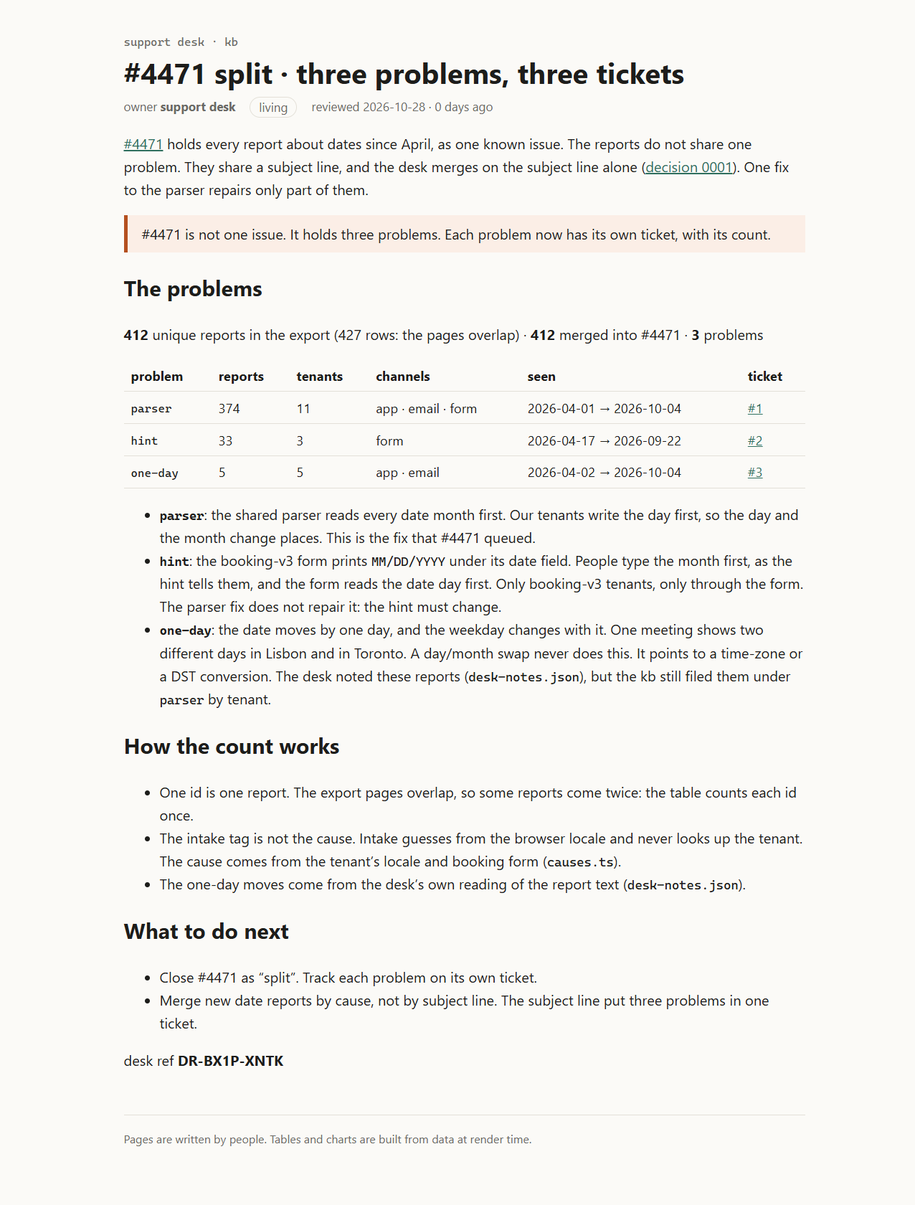
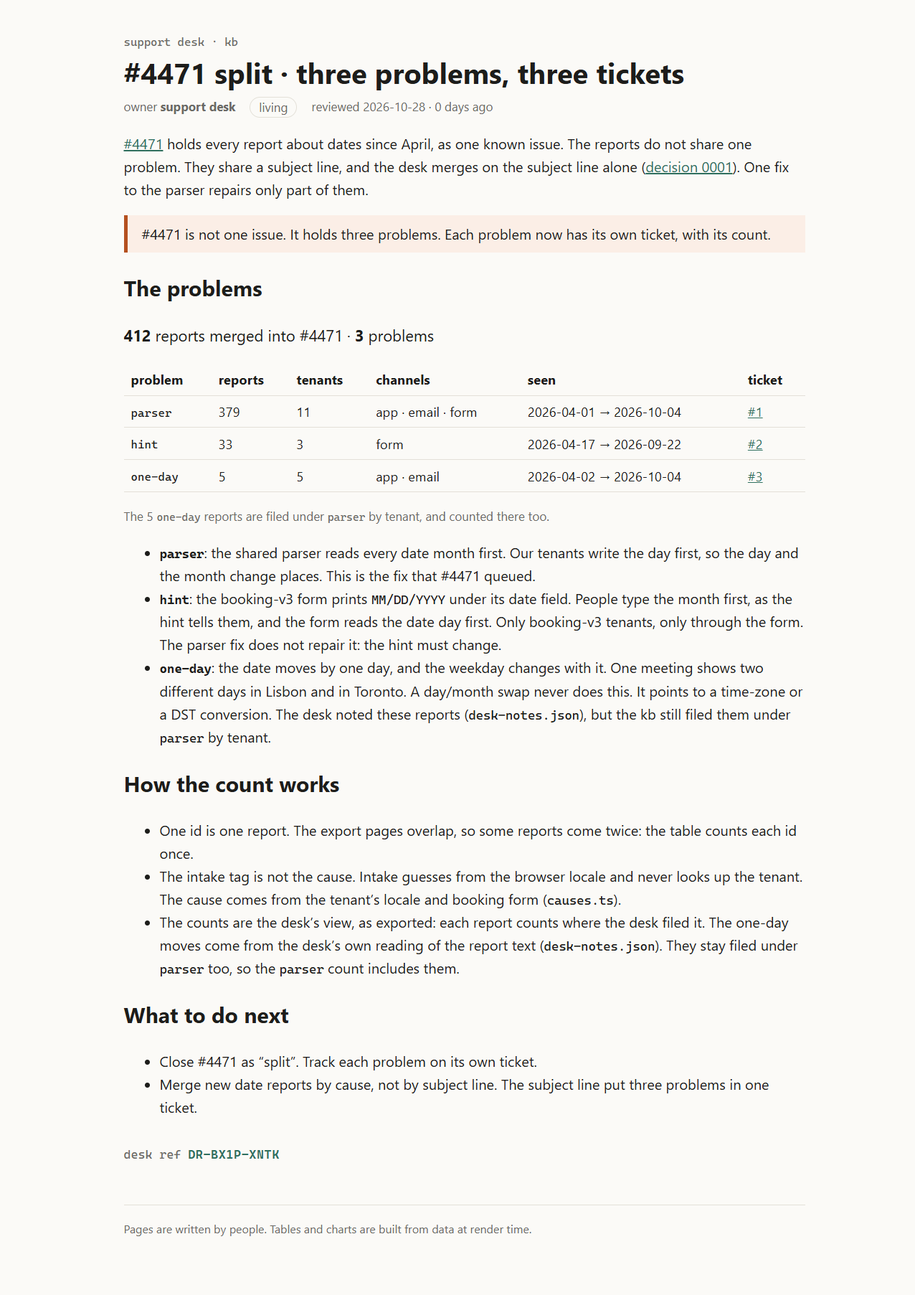
Count the #4471 split the desk's way
Count each report where the desk files it, as CauseTable does. The
parser problem now covers 379 reports, the 5 one-day moves included.
Restore causes.ts to the exported version.

diff --git a/rendered/site/kb/incidents/4471-split.html b/rendered/site/kb/incidents/4471-split.html
@@ -9,25 +9,26 @@
 		<link href="../../_app/immutable/chunks/B2Ul7l_u.js" rel="modulepreload">
 		<link href="../../_app/immutable/chunks/BCPXOG7W.js" rel="modulepreload">
 		<link href="../../_app/immutable/chunks/Dh1V97Jm.js" rel="modulepreload">
-		<link href="../../_app/immutable/entry/app.Csm3dcEE.js" rel="modulepreload">
+		<link href="../../_app/immutable/entry/app.CWMet1Cd.js" rel="modulepreload">
 		<link href="../../_app/immutable/nodes/0.C9KfiiPz.js" rel="modulepreload">
 		<link href="../../_app/immutable/chunks/DK3Fl9T5.js" rel="modulepreload">
-		<link href="../../_app/immutable/nodes/5.BJ21lesz.js" rel="modulepreload">
-		<link href="../../_app/immutable/chunks/ga4v6-0K.js" rel="modulepreload">
+		<link href="../../_app/immutable/nodes/5.B3uYD95O.js" rel="modulepreload">
+		<link href="../../_app/immutable/chunks/B25wft3Z.js" rel="modulepreload">
 		<link href="../../_app/immutable/chunks/BTPwLomz.js" rel="modulepreload">
 		<link href="../../_app/immutable/chunks/CVBzP17p.js" rel="modulepreload">
-		<link href="../../_app/immutable/chunks/CGGt1m8v.js" rel="modulepreload">
+		<link href="../../_app/immutable/chunks/BIy4WKJS.js" rel="modulepreload">
 		<!--e2jw2j--><!----><title>#4471 split · three problems, three tickets · support kb</title>
 		<link href="../../_app/immutable/assets/runbook.COyw0cbZ.css" rel="stylesheet">
 		<link href="../../_app/immutable/assets/Callout.AbLv9dM_.css" rel="stylesheet">
-		<link href="../../_app/immutable/assets/_page.BZb6cwmm.css" rel="stylesheet">
+		<link href="../../_app/immutable/assets/_page.lzZMl6pG.css" rel="stylesheet">
   </head>
   <body>
     <div style="display: contents"><!--[--><!--[--><!--[0--><!--[--><!--[--><!--[-1--><!--[--><div class="kb svelte-e2jw2j"><header><a class="crumb svelte-e2jw2j" href="/kb">support desk · kb</a> <h1 class="svelte-e2jw2j">#4471 split · three problems, three tickets</h1> <p class="meta svelte-e2jw2j"><span>owner <b>support desk</b></span> <span class="status living svelte-e2jw2j">living</span> <span class="svelte-e2jw2j">reviewed 2026-10-28 · 0 days ago</span></p></header> <!--[-1--><!--]--> <main><p><a href="/kb/incidents/4471">#4471</a> holds every report about dates since April, as one known issue. The
 reports do not share one problem. They share a subject line, and the desk merges on the subject line
 alone (<a href="/kb/decisions/0001-dedupe-by-subject">decision 0001</a>). One fix to the parser repairs only
 part of them.</p> <aside class="warn svelte-17bri61"><!---->#4471 is not one issue. It holds three problems. Each problem now has its own ticket, with its
-count.<!----></aside><!----> <h2>The problems</h2> <p class="sum svelte-1op6c6"><strong>412</strong> unique reports in the export (427 rows: the pages overlap) · <strong>412</strong> merged into #4471 · <strong>3</strong> problems</p> <table><thead><tr><th>problem</th><th>reports</th><th>tenants</th><th>channels</th><th>seen</th><th>ticket</th></tr></thead><tbody><!--[--><tr><td><code>parser</code></td><td>374</td><td>11</td><td>app · email · form</td><td>2026-04-01 → 2026-10-04</td><td><!--[0--><a href="https://github.com/aasmaa11/mega-what-it-shows/issues/1">#1</a><!--]--></td></tr><tr><td><code>hint</code></td><td>33</td><td>3</td><td>form</td><td>2026-04-17 → 2026-09-22</td><td><!--[0--><a href="https://github.com/aasmaa11/mega-what-it-shows/issues/2">#2</a><!--]--></td></tr><tr><td><code>one-day</code></td><td>5</td><td>5</td><td>app · email</td><td>2026-04-02 → 2026-10-04</td><td><!--[0--><a href="https://github.com/aasmaa11/mega-what-it-shows/issues/3">#3</a><!--]--></td></tr><!--]--></tbody></table><!----> <ul><li><strong><code>parser</code></strong>: the shared parser reads every date month first. Our tenants write the day first, so
+count.<!----></aside><!----> <h2>The problems</h2> <p class="sum svelte-1op6c6"><strong>412</strong> reports merged into #4471 · <strong>3</strong> problems</p> <table><thead><tr><th>problem</th><th>reports</th><th>tenants</th><th>channels</th><th>seen</th><th>ticket</th></tr></thead><tbody><!--[--><tr><td><code>parser</code></td><td>379</td><td>11</td><td>app · email · form</td><td>2026-04-01 → 2026-10-04</td><td><!--[0--><a href="https://github.com/aasmaa11/mega-what-it-shows/issues/1">#1</a><!--]--></td></tr><tr><td><code>hint</code></td><td>33</td><td>3</td><td>form</td><td>2026-04-17 → 2026-09-22</td><td><!--[0--><a href="https://github.com/aasmaa11/mega-what-it-shows/issues/2">#2</a><!--]--></td></tr><tr><td><code>one-day</code></td><td>5</td><td>5</td><td>app · email</td><td>2026-04-02 → 2026-10-04</td><td><!--[0--><a href="https://github.com/aasmaa11/mega-what-it-shows/issues/3">#3</a><!--]--></td></tr><!--]--></tbody></table> <!--[--><!--[-1--><!--]--><!--[-1--><!--]--><!--[0--><p class="note svelte-1op6c6">The 5 <code>one-day</code> reports are filed under <code>parser</code> by tenant, and
+      counted there too.</p><!--]--><!--]--><!----> <ul><li><strong><code>parser</code></strong>: the shared parser reads every date month first. Our tenants write the day first, so
 the day and the month change places. This is the fix that #4471 queued.</li> <li><strong><code>hint</code></strong>: the booking-v3 form prints <code>MM/DD/YYYY</code> under its date field. People type the month
 first, as the hint tells them, and the form reads the date day first. Only booking-v3 tenants,
 only through the form. The parser fix does not repair it: the hint must change.</li> <li><strong><code>one-day</code></strong>: the date moves by one day, and the weekday changes with it. One meeting shows two
@@ -35,21 +36,23 @@ different days in Lisbon and in Toronto. A day/month swap never does this. It po
 time-zone or a DST conversion. The desk noted these reports (<code>desk-notes.json</code>), but the kb still
 filed them under <code>parser</code> by tenant.</li></ul> <h2>How the count works</h2> <ul><li>One id is one report. The export pages overlap, so some reports come twice: the table counts
 each id once.</li> <li>The intake tag is not the cause. Intake guesses from the browser locale and never looks up the
-tenant. The cause comes from the tenant’s locale and booking form (<code>causes.ts</code>).</li> <li>The one-day moves come from the desk’s own reading of the report text (<code>desk-notes.json</code>).</li></ul> <h2>What to do next</h2> <ul><li>Close #4471 as “split”. Track each problem on its own ticket.</li> <li>Merge new date reports by cause, not by subject line. The subject line put three problems in one
+tenant. The cause comes from the tenant’s locale and booking form (<code>causes.ts</code>).</li> <li>The counts are the desk’s view, as exported: each report counts where the desk filed it. The
+one-day moves come from the desk’s own reading of the report text (<code>desk-notes.json</code>). They stay
+filed under <code>parser</code> too, so the <code>parser</code> count includes them.</li></ul> <h2>What to do next</h2> <ul><li>Close #4471 as “split”. Track each problem on its own ticket.</li> <li>Merge new date reports by cause, not by subject line. The subject line put three problems in one
 ticket.</li></ul> <!--[0--><p class="stamp svelte-1280m42">desk ref <b class="svelte-1280m42">DR-BX1P-XNTK</b></p><!--]--><!----><!----></main> <footer class="svelte-e2jw2j">Pages are written by people. Tables and charts are built from data at render time.</footer></div><!--]--><!--]--><!--]--><!----><!--]--><!--]--><!--]--><!----> <!--[-1--><!--]--><!--]-->
 			
 			<script>
 				{
-					__sveltekit_19t1wzj = {
+					__sveltekit_7le717 = {
 						base: new URL("../..", location).pathname.slice(0, -1),
-						version: "1793204968447"
+						version: "1793205101162"
 					};
 
 					const element = document.currentScript.parentElement;
 
 					import("../../_app/immutable/entry/start.CH5w6lId.js").then(async (kit) => {
-						kit.init(__sveltekit_19t1wzj);
-						const app = await import("../../_app/immutable/entry/app.Csm3dcEE.js");
+						kit.init(__sveltekit_7le717);
+						const app = await import("../../_app/immutable/entry/app.CWMet1Cd.js");
 						kit.start(app, element, {
 							node_ids: [0, 5],
 							data: [null,null],

diff --git a/rendered/site/_app/immutable/chunks/B25wft3Z.js b/rendered/site/_app/immutable/chunks/B25wft3Z.js
@@ -1,0 +1,17 @@
+import{t as e}from"./DK3Fl9T5.js";import{E as t,F as n,H as r,I as i,K as a,L as o,N as s,O as c,R as l,S as u,T as d,U as f,W as p,_ as m,c as h,h as g,k as _,q as v,r as y,t as b,w as x}from"./BCPXOG7W.js";import{t as S}from"./BTPwLomz.js";import{n as C,t as w}from"./CVBzP17p.js";import{a as T,l as E,o as D,r as O,t as k}from"./BIy4WKJS.js";var A=t(`<a> </a>`),j=t(`<span class="none svelte-1op6c6">no ticket</span>`),M=t(`<tr><td><code> </code></td><td> </td><td> </td><td> </td><td> </td><td><!></td></tr>`),N=t(`<p class="note svelte-1op6c6"> <code> </code> reports are filed under <code> </code> by tenant, and
+      counted there too.</p>`),P=t(`<p class="sum svelte-1op6c6"><strong> </strong> <strong> </strong> </p> <table><thead><tr><th>problem</th><th>reports</th><th>tenants</th><th>channels</th><th>seen</th><th>ticket</th></tr></thead><tbody></tbody></table> <!>`,1);function F(e,t){p(t,!0);let c=r(()=>E(C).filter(e=>e.mergedInto===t.ticket)),y=r(()=>T(_(c),O)),b=r(()=>_(c).filter(e=>w.oneDayMove.includes(e.id))),S=r(()=>[..._(y).map(e=>({problem:e.cause,reports:e.reports,filedUnder:null})),{problem:`one-day`,reports:_(b),filedUnder:_(y).find(e=>D(e,w.oneDayMove))?.cause??null}]),k=e=>{let t=e.map(e=>e.receivedAt.slice(0,10)).sort();return`${t[0]} → ${t[t.length-1]}`},F=e=>`#${e.split(`/`).pop()}`;var I=P(),L=i(I),R=n(L),z=o(R,!0),B=l(R),V=l(B),H=o(V,!0),U=l(V);v(L);var W=l(L,2),G=l(n(W));g(G,21,()=>_(S),e=>e.problem,(e,r)=>{var i=M(),a=n(i),c=n(a),d=o(c,!0);v(a);var f=l(a),p=o(f,!0),g=l(f),y=o(g,!0),b=l(g),S=o(b,!0),C=l(b),w=o(C,!0),T=l(C),E=n(T),D=e=>{var n=A(),i=o(n,!0);s(e=>{h(n,`href`,t.tickets[_(r).problem]),u(i,e)},[()=>F(t.tickets[_(r).problem])]),x(e,n)},O=e=>{var t=j();x(e,t)};m(E,e=>{t.tickets[_(r).problem]?e(D):e(O,-1)}),v(T),v(i),s((e,t,n)=>{u(d,_(r).problem),u(p,_(r).reports.length),u(y,e),u(S,t),u(w,n)},[()=>new Set(_(r).reports.map(e=>e.tenant)).size,()=>[...new Set(_(r).reports.map(e=>e.channel))].sort().join(` · `),()=>k(_(r).reports)]),x(e,i)}),v(G),v(W);var K=l(W,2);g(K,17,()=>_(S),e=>e.problem,(e,t)=>{var r=d(),c=i(r),f=e=>{var r=N(),i=n(r),c=l(i),d=o(c,!0),f=l(c,2),p=o(f,!0);a(),v(r),s(()=>{u(i,`The ${_(t).reports.length??``} `),u(d,_(t).problem),u(p,_(t).filedUnder)}),x(e,r)};m(c,e=>{_(t).filedUnder&&e(f)}),x(e,r)}),s(()=>{u(z,_(c).length),u(B,` reports merged into #${t.ticket??``} · `),u(H,_(S).length),u(U,` ${_(S).length===1?`problem`:`problems`}`)}),x(e,I),f()}var I=`0123456789ABCDEFGHJKMNPQRSTVWXYZ`;function L(e,t){let n=t>>>0;for(let t=0;t<e.length;t++)n^=e.charCodeAt(t),n=Math.imul(n,16777619)>>>0;return n}function R(e){let t=e.trim(),n=L(t,2166136261),r=L(t,2654435769),i=BigInt(n)<<8n|BigInt(r&255),a=``;for(let e=0;e<8;e++)a=I[Number(i&31n)]+a,i>>=5n;return`DR-${a.slice(0,4)}-${a.slice(4)}`}var z=t(`<p class="stamp svelte-1280m42">desk ref <b class="svelte-1280m42"> </b></p>`),B=t(`<p class="stamp missing svelte-1280m42">no desk ref: this page isn't signed (no <code>signature</code> in its frontmatter)</p>`);function V(e,t){p(t,!0);let a=r(()=>t.signature?R(t.signature):null);var c=d(),h=i(c),g=e=>{var t=z(),r=l(n(t)),i=o(r,!0);v(t),s(()=>u(i,_(a))),x(e,t)},y=e=>{var t=B();x(e,t)};m(h,e=>{_(a)?e(g):e(y,-1)}),x(e,c),f()}var H=e({default:()=>Z,metadata:()=>U}),U={layout:`runbook`,title:`#4471 split · three problems, three tickets`,owner:`support desk`,status:`living`,reviewed:`2026-10-28T00:00:00.000Z`,signature:`v1.eyJzdWIiOiI2ODk5IiwiYXVkIjoiY2hhbGxlbmdlOndoYXQtaXQtc2hvd3MiLCJpYXQiOjE3OTMyMDQ2MzYsImV4cCI6MTc5MzI5MTAzNn0.vUap4_KQLr4M8rddm3E4DxOsJuwBN7eLs5picBw_OMo`},{layout:W,title:G,owner:K,status:q,reviewed:J,signature:Y}=U,X=t(`<p><a href="/kb/incidents/4471">#4471</a> holds every report about dates since April, as one known issue. The
+reports do not share one problem. They share a subject line, and the desk merges on the subject line
+alone (<a href="/kb/decisions/0001-dedupe-by-subject">decision 0001</a>). One fix to the parser repairs only
+part of them.</p> <!> <h2>The problems</h2> <!> <ul><li><strong><code>parser</code></strong>: the shared parser reads every date month first. Our tenants write the day first, so
+the day and the month change places. This is the fix that #4471 queued.</li> <li><strong><code>hint</code></strong>: the booking-v3 form prints <code>MM/DD/YYYY</code> under its date field. People type the month
+first, as the hint tells them, and the form reads the date day first. Only booking-v3 tenants,
+only through the form. The parser fix does not repair it: the hint must change.</li> <li><strong><code>one-day</code></strong>: the date moves by one day, and the weekday changes with it. One meeting shows two
+different days in Lisbon and in Toronto. A day/month swap never does this. It points to a
+time-zone or a DST conversion. The desk noted these reports (<code>desk-notes.json</code>), but the kb still
+filed them under <code>parser</code> by tenant.</li></ul> <h2>How the count works</h2> <ul><li>One id is one report. The export pages overlap, so some reports come twice: the table counts
+each id once.</li> <li>The intake tag is not the cause. Intake guesses from the browser locale and never looks up the
+tenant. The cause comes from the tenant’s locale and booking form (<code>causes.ts</code>).</li> <li>The counts are the desk’s view, as exported: each report counts where the desk filed it. The
+one-day moves come from the desk’s own reading of the report text (<code>desk-notes.json</code>). They stay
+filed under <code>parser</code> too, so the <code>parser</code> count includes them.</li></ul> <h2>What to do next</h2> <ul><li>Close #4471 as “split”. Track each problem on its own ticket.</li> <li>Merge new date reports by cause, not by subject line. The subject line put three problems in one
+ticket.</li></ul> <!>`,1);function Z(e,t){let n=b(t,[`children`,`$$slots`,`$$events`,`$$legacy`]),r=`https://github.com/aasmaa11/mega-what-it-shows/issues`,o={parser:`${r}/1`,hint:`${r}/2`,"one-day":`${r}/3`};S(e,y(()=>n,()=>U,{children:(e,t)=>{var n=X(),r=l(i(n),2);k(r,{kind:`warn`,children:(e,t)=>{a();var n=c(`#4471 is not one issue. It holds three problems. Each problem now has its own ticket, with its
+count.`);x(e,n)},$$slots:{default:!0}});var s=l(r,4);F(s,{ticket:4471,get tickets(){return o}}),V(l(s,12),{get signature(){return Y}}),x(e,n)},$$slots:{default:!0}}))}export{Z as n,H as t};

diff --git a/rendered/site/_app/immutable/chunks/CgeRC4yK.js b/rendered/site/_app/immutable/chunks/CgeRC4yK.js
@@ -1,0 +1,3 @@
+import{t as e}from"./DK3Fl9T5.js";import{D as t,E as n,F as r,H as i,I as a,K as o,L as s,N as c,O as l,R as u,S as d,T as f,U as p,W as m,_ as h,c as g,d as _,h as v,k as y,n as b,q as x,r as S,t as C,w}from"./BCPXOG7W.js";import{t as T}from"./BTPwLomz.js";import{n as E,t as D}from"./CVBzP17p.js";import{a as O,c as k,l as A,o as j,r as M,t as N}from"./BIy4WKJS.js";var P=n(`<tr><td class="svelte-12oyimm"><code> </code></td><td class="svelte-12oyimm"> </td><td class="tags svelte-12oyimm"> </td><td class="svelte-12oyimm"> </td><td class="svelte-12oyimm"> </td><td class="svelte-12oyimm"> </td></tr>`),F=n(`<p class="note svelte-12oyimm"> <code> </code> by tenant.</p>`),I=n(`<p class="sum svelte-12oyimm"><strong> </strong> <strong> </strong> </p> <table><thead><tr><th>cause</th><th>reports</th><th>tagged as</th><th>tenants</th><th>seen</th><th></th></tr></thead><tbody></tbody></table> <!>`,1);function L(e,t){m(t,!0);let n=i(()=>A(E).filter(e=>e.mergedInto===t.ticket)),l=i(()=>O(y(n),M)),g=i(()=>k(y(l),t.ticket)),b=e=>Object.entries(e.taggedAs).sort((e,t)=>t[1]-e[1]).map(([e,t])=>`${e} ×${t}`).join(` · `);var S=I(),C=a(S),T=r(C),N=s(T,!0),L=u(T),R=u(L),z=s(R,!0),B=u(R);x(C);var V=u(C,2),H=u(r(V));v(H,21,()=>y(l),e=>e.cause,(e,n)=>{var i=P();let a;var o=r(i),l=r(o),f=s(l,!0);x(o);var p=u(o),m=s(p,!0),h=u(p),v=s(h,!0),S=u(h),C=s(S,!0),T=u(S),E=s(T),D=u(T),O=s(D,!0);x(i),c(e=>{a=_(i,1,`svelte-12oyimm`,null,a,{wrong:y(n).cause!==y(g)}),d(f,y(n).cause),d(m,y(n).reports.length),d(v,e),d(C,y(n).tenants),d(E,`${y(n).firstSeen??``} → ${y(n).lastSeen??``}`),d(O,y(n).cause===y(g)?`#${t.ticket}`:`not this ticket — no ticket of its own`)},[()=>b(y(n))]),w(e,i)}),x(H),x(V);var U=u(V,2);v(U,17,()=>y(l),e=>e.cause,(e,t)=>{let n=i(()=>j(y(t),D.oneDayMove));var l=f(),p=a(l),m=e=>{var i=F(),a=r(i),l=u(a),f=s(l,!0);o(),x(i),c(()=>{d(a,`${y(n)??``} reports read as a one-day move; filed under `),d(f,y(t).cause)}),w(e,i)};h(p,e=>{y(n)&&e(m)}),w(e,l)}),c(()=>{d(N,y(n).length),d(L,` reports merged into #${t.ticket??``} · `),d(z,y(l).length),d(B,` ${y(l).length===1?`cause`:`causes`}`)}),w(e,S),p()}var R=t(`<text y="128" class="svelte-18a6qal"> </text>`),z=t(`<rect class="in svelte-18a6qal" width="9"></rect><rect class="merged svelte-18a6qal" width="9"></rect><!>`,1),B=n(`<figure><svg role="img" class="svelte-18a6qal"></svg> <figcaption class="svelte-18a6qal"><span class="key in svelte-18a6qal"></span> received · <span class="key merged svelte-18a6qal"></span> </figcaption></figure>`);function V(e,t){m(t,!0);let n=b(t,`from`,3,`2026-03-30`),o=b(t,`to`,3,`2026-10-05`),l=6048e5,f=e=>Date.parse(e.slice(0,10)),_=i(()=>{let e=f(n()),r=Math.ceil((f(o())-e)/l),i=Array.from({length:r},(t,n)=>({at:e+n*l,received:0,merged:0})),a=t=>i[Math.floor((f(t)-e)/l)];for(let e of A(E)){if(e.mergedInto!==t.ticket)continue;let n=a(e.receivedAt);n&&n.received++;let r=e.mergedAt?a(e.mergedAt):void 0;r&&r.merged++}return i}),S=i(()=>Math.max(...y(_).flatMap(e=>[e.received,e.merged]))),C=e=>new Date(e).toISOString().slice(5,10),T=e=>e/y(S)*100;var D=B(),O=r(D);v(O,23,()=>y(_),e=>e.at,(e,t,n)=>{var r=z(),i=a(r),o=u(i),l=u(o),f=e=>{var r=R(),i=s(r,!0);c(e=>{g(r,`x`,y(n)*24+12),d(i,e)},[()=>C(y(t).at)]),w(e,r)};h(l,e=>{y(n)%4==0&&e(f)}),c((e,t,r,a)=>{g(i,`x`,y(n)*24+2),g(i,`y`,e),g(i,`height`,t),g(o,`x`,y(n)*24+12),g(o,`y`,r),g(o,`height`,a)},[()=>110-T(y(t).received),()=>T(y(t).received),()=>110-T(y(t).merged),()=>T(y(t).merged)]),w(e,r)}),x(O);var k=u(O,2),j=u(r(k),3);x(k),x(D),c(()=>{g(O,`viewBox`,`0 0 ${y(_).length*24} 140`),g(O,`aria-label`,`reports received and merged into #${t.ticket??``}, per week`),d(j,` merged into #${t.ticket??``} · per week`)}),w(e,D),p()}var H=e({default:()=>X,metadata:()=>U}),U={layout:`runbook`,title:`#4471 · dates parse mm/dd in eu locales`,owner:`support desk`,status:`known`,reviewed:`2026-09-30T00:00:00.000Z`},{layout:W,title:G,owner:K,status:q,reviewed:J}=U,Y=n(`<p>Since April, people have told us their bookings land on the wrong day: a month flipped. By
+4 October the desk had <strong>412 reports</strong>.</p> <p><strong>Merged as one issue.</strong> The parser reads dates month first, and our tenants write the day
+first. The fix is queued.</p> <!> <h2>What was merged</h2> <!> <h2>Since April</h2> <!> <h2>Lessons</h2> <ul><li>A big ticket is mostly one bug reported many times. Merge early, count once.</li> <li>Write the page while the queue is still in your head.</li></ul>`,1);function X(e,t){let n=C(t,[`children`,`$$slots`,`$$events`,`$$legacy`]);T(e,S(()=>n,()=>U,{children:(e,t)=>{var n=Y(),r=u(a(n),4);N(r,{children:(e,t)=>{o();var n=l(`Known. One issue, one fix queued.`);w(e,n)},$$slots:{default:!0}});var i=u(r,4);L(i,{ticket:4471}),V(u(i,4),{ticket:4471}),o(4),w(e,n)},$$slots:{default:!0}}))}export{X as n,H as t};

diff --git a/rendered/site/_app/immutable/chunks/BGqJVSDw.js b/rendered/site/_app/immutable/chunks/BGqJVSDw.js
@@ -1,0 +1,4 @@
+import{t as e}from"./DK3Fl9T5.js";import{E as t,F as n,I as r,K as i,L as a,N as o,O as s,R as c,S as l,U as u,W as d,d as f,g as p,h as m,k as h,l as g,o as _,q as v,r as y,s as b,t as x,u as S,w as C,z as w}from"./BCPXOG7W.js";import{t as T}from"./BTPwLomz.js";import{i as E,n as D,r as O,s as k,t as A}from"./BIy4WKJS.js";var j=[{why:`app vs email, same tenant`,a:{tenant:`kettle.books`,channel:`app`,subject:`Wrong day on the invite`},b:{tenant:`kettle.books`,channel:`email`,subject:`Client turned up on the wrong day`}},{why:`same subject, same tenant, different channel`,a:{tenant:`alder.physio`,channel:`form`,subject:`Booking on the wrong date`},b:{tenant:`alder.physio`,channel:`app`,subject:`Booking on the wrong date`}},{why:`same subject, same channel, different tenant`,a:{tenant:`copper.studio`,channel:`form`,subject:`Date is wrong`},b:{tenant:`morrow.tax`,channel:`form`,subject:`Date is wrong`}},{why:`different subject, same way in`,a:{tenant:`pale.harbour`,channel:`form`,subject:`Month and day swapped?`},b:{tenant:`alder.physio`,channel:`form`,subject:`Appointment moved by itself`}},{why:`no tenant on file`,a:{tenant:`unknown.sender`,channel:`email`,subject:`Dates mixed up`},b:{tenant:`unknown.sender`,channel:`email`,subject:`Dates mixed up`}}],M=t(`<option> </option>`),N=t(`<fieldset class="svelte-gq0h2h"><legend></legend> <select aria-label="tenant"></select> <select aria-label="channel"></select> <input aria-label="subject"/> <code> </code></fieldset>`),P=t(`<tr><td> </td><td> </td><td> </td></tr>`),F=t(`<div class="try svelte-gq0h2h"><!> <p> </p></div> <table><thead><tr><th>case</th><th>same subject</th><th>same cause</th></tr></thead><tbody></tbody></table>`,1);function I(e,t){d(t,!0);let i=[`app`,`email`,`form`],s=w({tenant:`alder.physio`,channel:`form`,subject:`Booking on the wrong date`}),y=w({tenant:`kettle.books`,channel:`form`,subject:`Booking on the wrong date`}),x=(e,t)=>k(e,O(e),t,O(t));var T=F(),A=r(T),I=n(A);m(I,17,()=>[s,y],p,(e,t,r)=>{var s=N(),u=n(s);u.textContent=`report ${r===0?`A`:`B`}`;var d=c(u,2);m(d,20,D,e=>e,(e,t)=>{var n=M(),r=a(n,!0),i={};o(()=>{l(r,t),i!==(i=t)&&(n.__value=i)}),C(e,n)}),v(d),S(d);var f=c(d,2);m(f,20,()=>i,e=>e,(e,t)=>{var n=M(),r=a(n,!0),i={};o(()=>{l(r,t),i!==(i=t)&&(n.__value=i)}),C(e,n)}),v(f),S(f);var p=c(f,2);b(p);var y=c(p,2),x=a(y,!0);v(s),o(e=>l(x,e),[()=>E(h(t),O(h(t)))??`no cause`]),g(d,()=>h(t).tenant,e=>h(t).tenant=e),g(f,()=>h(t).channel,e=>h(t).channel=e),_(p,()=>h(t).subject,e=>h(t).subject=e),C(e,s)});var L=c(I,2);let R;var z=a(L,!0);v(A);var B=c(A,2),V=c(n(B));m(V,21,()=>j,e=>e.why,(e,t)=>{var r=P(),i=n(r),s=a(i,!0),u=c(i),d=a(u,!0),p=c(u);let m;var g=a(p,!0);v(r),o((e,n)=>{l(s,h(t).why),l(d,h(t).a.subject===h(t).b.subject?`yes`:`no`),m=f(p,1,`svelte-gq0h2h`,null,m,{dup:e}),l(g,n)},[()=>x(h(t).a,h(t).b),()=>x(h(t).a,h(t).b)?`yes`:`no`]),C(e,r)}),v(V),v(B),o((e,t)=>{R=f(L,1,`verdict svelte-gq0h2h`,null,R,{dup:e}),l(z,t)},[()=>x(s,y),()=>x(s,y)?`same cause — merge`:`different causes — keep apart`]),C(e,T),u()}var L=e({default:()=>G,metadata:()=>R}),R={layout:`runbook`,title:`Triage: duplicate reports`,owner:`support desk`,status:`accepted`,reviewed:`2024-06-11T00:00:00.000Z`},{layout:z,title:B,owner:V,status:H,reviewed:U}=R,W=t(`<p>A busy morning brings hundreds of reports about the same thing. We keep one ticket per issue
+and merge every duplicate into it, so engineering sees one thread with a count.</p> <h2>The rule</h2> <p>A report is a duplicate when its <strong>subject line matches</strong> the subject of an open ticket
+(<a href="/kb/decisions/0001-dedupe-by-subject">decision 0001</a>):</p> <ol><li>lowercase the subject and strip punctuation;</li> <li>look for an open ticket with the same subject;</li> <li>found one: merge the report into it. None: open a new ticket.</li></ol> <!> <h2>Try it</h2> <!> <h2>When you are unsure</h2> <p>Merge. Splitting a ticket later is cheaper than two engineers chasing the same bug.</p>`,1);function G(e,t){let n=x(t,[`children`,`$$slots`,`$$events`,`$$legacy`]);T(e,y(()=>n,()=>R,{children:(e,t)=>{var n=W(),a=c(r(n),8);A(a,{children:(e,t)=>{i();var n=s(`Matching on subject is fast and needs no reading. During an incident that matters more than
+anything else.`);C(e,n)},$$slots:{default:!0}}),I(c(a,4),{}),i(4),C(e,n)},$$slots:{default:!0}}))}export{G as n,L as t};

diff --git a/src/lib/kb/ProblemTable.svelte b/src/lib/kb/ProblemTable.svelte
@@ -1,23 +1,32 @@
 <script lang="ts">
   import reports from '#lib/data/reports-4471.json';
   import notes from '#lib/data/desk-notes.json';
-  import { groupByProblem, uniqueById, type Problem, type Report } from '#lib/kb/causes';
+  import { groupByCause, readAs, uniqueById, type Report } from '#lib/kb/causes';
   import { tenantOf } from '#lib/kb/locales';
 
   // `tickets`: problem → the ticket that now holds it.
-  let { ticket, tickets }: { ticket: number; tickets: Partial<Record<Problem, string>> } = $props();
+  let { ticket, tickets }: { ticket: number; tickets: Record<string, string> } = $props();
 
-  const rows = uniqueById(reports as Report[]);
-  const merged = $derived(rows.filter((r) => r.mergedInto === ticket));
-  const groups = $derived(groupByProblem(merged, tenantOf, notes.oneDayMove));
+  // The desk's view: each report counted where it is filed (by cause), and the desk-noted
+  // one-day moves counted again as their own problem, as CauseTable footnotes them.
+  const merged = $derived(uniqueById(reports as Report[]).filter((r) => r.mergedInto === ticket));
+  const groups = $derived(groupByCause(merged, tenantOf));
+  const oneDay = $derived(merged.filter((r) => notes.oneDayMove.includes(r.id)));
+  const rows = $derived([
+    ...groups.map((g) => ({ problem: g.cause, reports: g.reports, filedUnder: null as string | null })),
+    { problem: 'one-day', reports: oneDay, filedUnder: groups.find((g) => readAs(g, notes.oneDayMove))?.cause ?? null },
+  ]);
+  const seen = (rs: Report[]) => {
+    const days = rs.map((r) => r.receivedAt.slice(0, 10)).sort();
+    return `${days[0]} → ${days[days.length - 1]}`;
+  };
   const ticketNo = (url: string) => `#${url.split('/').pop()}`;
 </script>
 
 <p class="sum">
-  <strong>{rows.length}</strong> unique reports in the export ({reports.length} rows: the pages overlap) ·
-  <strong>{merged.length}</strong> merged into #{ticket} ·
-  <strong>{groups.length}</strong>
-  {groups.length === 1 ? 'problem' : 'problems'}
+  <strong>{merged.length}</strong> reports merged into #{ticket} ·
+  <strong>{rows.length}</strong>
+  {rows.length === 1 ? 'problem' : 'problems'}
 </p>
 
 <table>
@@ -25,23 +34,32 @@
     <tr><th>problem</th><th>reports</th><th>tenants</th><th>channels</th><th>seen</th><th>ticket</th></tr>
   </thead>
   <tbody>
-    {#each groups as g (g.cause)}
-      {@const channels = new Set(g.reports.map((r) => r.channel))}
+    {#each rows as row (row.problem)}
       <tr>
-        <td><code>{g.cause}</code></td>
-        <td>{g.reports.length}</td>
-        <td>{g.tenants}</td>
-        <td>{[...channels].sort().join(' · ')}</td>
-        <td>{g.firstSeen} → {g.lastSeen}</td>
+        <td><code>{row.problem}</code></td>
+        <td>{row.reports.length}</td>
+        <td>{new Set(row.reports.map((r) => r.tenant)).size}</td>
+        <td>{[...new Set(row.reports.map((r) => r.channel))].sort().join(' · ')}</td>
+        <td>{seen(row.reports)}</td>
         <td>
-          {#if tickets[g.cause]}<a href={tickets[g.cause]}>{ticketNo(tickets[g.cause]!)}</a>{:else}<span class="none">no ticket</span>{/if}
+          {#if tickets[row.problem]}<a href={tickets[row.problem]}>{ticketNo(tickets[row.problem])}</a>{:else}<span class="none">no ticket</span>{/if}
         </td>
       </tr>
     {/each}
   </tbody>
 </table>
 
+{#each rows as row (row.problem)}
+  {#if row.filedUnder}
+    <p class="note">
+      The {row.reports.length} <code>{row.problem}</code> reports are filed under <code>{row.filedUnder}</code> by tenant, and
+      counted there too.
+    </p>
+  {/if}
+{/each}
+
 <style>
   .sum { font-size: 1.1rem; }
+  .note { color: var(--muted); font-size: 0.85em; }
   .none { color: var(--warn); font-weight: 600; }
 </style>

diff --git a/rendered/site/kb.html b/rendered/site/kb.html
@@ -9,22 +9,22 @@
 		<link href="./_app/immutable/chunks/B2Ul7l_u.js" rel="modulepreload">
 		<link href="./_app/immutable/chunks/BCPXOG7W.js" rel="modulepreload">
 		<link href="./_app/immutable/chunks/Dh1V97Jm.js" rel="modulepreload">
-		<link href="./_app/immutable/entry/app.Csm3dcEE.js" rel="modulepreload">
+		<link href="./_app/immutable/entry/app.CWMet1Cd.js" rel="modulepreload">
 		<link href="./_app/immutable/nodes/0.C9KfiiPz.js" rel="modulepreload">
 		<link href="./_app/immutable/chunks/DK3Fl9T5.js" rel="modulepreload">
-		<link href="./_app/immutable/nodes/2.CYFqTPic.js" rel="modulepreload">
+		<link href="./_app/immutable/nodes/2.BAQ3ijwf.js" rel="modulepreload">
 		<link href="./_app/immutable/chunks/BTPwLomz.js" rel="modulepreload">
 		<link href="./_app/immutable/chunks/YX22L_Ud.js" rel="modulepreload">
-		<link href="./_app/immutable/chunks/D3RsPNhh.js" rel="modulepreload">
+		<link href="./_app/immutable/chunks/CgeRC4yK.js" rel="modulepreload">
 		<link href="./_app/immutable/chunks/CVBzP17p.js" rel="modulepreload">
-		<link href="./_app/immutable/chunks/CGGt1m8v.js" rel="modulepreload">
-		<link href="./_app/immutable/chunks/ga4v6-0K.js" rel="modulepreload">
-		<link href="./_app/immutable/chunks/gXcuRbIp.js" rel="modulepreload">
+		<link href="./_app/immutable/chunks/BIy4WKJS.js" rel="modulepreload">
+		<link href="./_app/immutable/chunks/B25wft3Z.js" rel="modulepreload">
+		<link href="./_app/immutable/chunks/BGqJVSDw.js" rel="modulepreload">
 		<!--e2jw2j--><!----><title>Support knowledge base · support kb</title>
 		<link href="./_app/immutable/assets/runbook.COyw0cbZ.css" rel="stylesheet">
 		<link href="./_app/immutable/assets/Callout.AbLv9dM_.css" rel="stylesheet">
 		<link href="./_app/immutable/assets/_page.D56XP2ro.css" rel="stylesheet">
-		<link href="./_app/immutable/assets/_page.BZb6cwmm.css" rel="stylesheet">
+		<link href="./_app/immutable/assets/_page.lzZMl6pG.css" rel="stylesheet">
 		<link href="./_app/immutable/assets/_page.DO6Yid7X.css" rel="stylesheet">
 		<link href="./_app/immutable/assets/2.Bt0MwIZg.css" rel="stylesheet">
   </head>
@@ -34,16 +34,16 @@ computed by a component, not typed into a paragraph.</p><!----></main> <footer c
 			
 			<script>
 				{
-					__sveltekit_19t1wzj = {
+					__sveltekit_7le717 = {
 						base: new URL(".", location).pathname.slice(0, -1),
-						version: "1793204968447"
+						version: "1793205101162"
 					};
 
 					const element = document.currentScript.parentElement;
 
 					import("./_app/immutable/entry/start.CH5w6lId.js").then(async (kit) => {
-						kit.init(__sveltekit_19t1wzj);
-						const app = await import("./_app/immutable/entry/app.Csm3dcEE.js");
+						kit.init(__sveltekit_7le717);
+						const app = await import("./_app/immutable/entry/app.CWMet1Cd.js");
 						kit.start(app, element, {
 							node_ids: [0, 2],
 							data: [null,null],

diff --git a/rendered/site/_app/immutable/chunks/BIy4WKJS.js b/rendered/site/_app/immutable/chunks/BIy4WKJS.js
@@ -1,0 +1,1 @@
+import{E as e,F as t,N as n,d as r,f as i,n as a,q as o,w as s,y as c}from"./BCPXOG7W.js";var l={"booking-v2":`DD/MM/YYYY`,"booking-v3":`MM/DD/YYYY`};function u(e){let t=new Intl.DateTimeFormat(e,{year:`numeric`,month:`2-digit`,day:`2-digit`}).formatToParts(new Date(Date.UTC(2026,0,2,12))).map(e=>e.type);return t.indexOf(`day`)<t.indexOf(`month`)}function d(e,t){return!t||!u(t.locale)?null:e.channel===`form`&&l[t.form].startsWith(`MM`)?`hint`:`parser`}function f(e,t,n,r){let i=d(e,t);return i!==null&&i===d(n,r)}function p(e){return[...new Map(e.map(e=>[e.id,e])).values()]}function m(e,t){let n=new Map;for(let r of e){let e=d(r,t(r))??`unplaced`;n.set(e,[...n.get(e)??[],r])}return[...n.entries()].map(([e,t])=>{let n=t.map(e=>e.receivedAt.slice(0,10)).sort();return{cause:e,reports:t,taggedAs:t.reduce((e,t)=>({...e,[t.meta.intakeTag]:(e[t.meta.intakeTag]??0)+1}),{}),tenants:new Set(t.map(e=>e.tenant)).size,firstSeen:n[0],lastSeen:n[n.length-1],mergedInto:[...new Set(t.flatMap(e=>e.mergedInto?[e.mergedInto]:[]))]}}).sort((e,t)=>t.reports.length-e.reports.length)}function h(e,t){return e.find(e=>e.mergedInto.includes(t))?.cause??null}function g(e,t){return e.reports.filter(e=>t.includes(e.id)).length}var _=Object.values([{handle:`alder.physio`,name:`Alder Physio`,locale:`de-DE`,form:`booking-v3`},{handle:`copper.studio`,name:`Copper Studio`,locale:`es-ES`,form:`booking-v3`},{handle:`harbour.dental`,name:`Harbour Dental`,locale:`en-GB`,form:`booking-v2`},{handle:`kettle.books`,name:`Kettle Books`,locale:`nl-NL`,form:`booking-v2`},{handle:`lantern.row`,name:`Lantern Row`,locale:`cs-CZ`,form:`booking-v2`},{handle:`long.table`,name:`Long Table`,locale:`it-IT`,form:`booking-v2`},{handle:`morrow.tax`,name:`Morrow Tax`,locale:`fr-FR`,form:`booking-v2`},{handle:`nine.lanterns`,name:`Nine Lanterns`,locale:`pl-PL`,form:`booking-v2`},{handle:`pale.harbour`,name:`Pale Harbour`,locale:`pt-PT`,form:`booking-v3`},{handle:`ridge.clinic`,name:`Ridge Clinic`,locale:`da-DK`,form:`booking-v2`},{handle:`stone.and.sons`,name:`Stone and Sons`,locale:`en-IE`,form:`booking-v2`}]),v=new Map(_.map(e=>[e.handle,e]));function y(e){return v.get(e.tenant)}var b=()=>[...v.keys()].sort(),x=e(`<aside><!></aside>`);function S(e,l){let u=a(l,`kind`,3,`note`);var d=x(),f=t(d);c(f,()=>l.children),o(d),n(()=>r(d,1,i(u()),`svelte-17bri61`)),s(e,d)}export{m as a,h as c,d as i,p as l,b as n,g as o,y as r,f as s,S as t};

diff --git a/rendered/site/_app/immutable/nodes/2.BAQ3ijwf.js b/rendered/site/_app/immutable/nodes/2.BAQ3ijwf.js
@@ -1,0 +1,2 @@
+import{E as e,F as t,I as n,K as r,L as i,N as a,R as o,S as s,U as c,W as l,c as u,d,h as f,i as p,k as m,q as h,r as g,t as _,w as v}from"../chunks/BCPXOG7W.js";import{n as y,r as b,t as x}from"../chunks/BTPwLomz.js";import{t as S}from"../chunks/YX22L_Ud.js";import{t as C}from"../chunks/CgeRC4yK.js";import{t as w}from"../chunks/B25wft3Z.js";import{t as T}from"../chunks/BGqJVSDw.js";var E=e(`<tr><td><a> </a></td><td> </td><td> </td><td> </td></tr>`),D=e(`<table><thead><tr><th>page</th><th>owner</th><th>status</th><th>reviewed</th></tr></thead><tbody></tbody></table>`);function O(e,n){l(n,!1);let r=Object.entries(Object.assign({"/src/routes/kb/decisions/0001-dedupe-by-subject/+page.svx":S,"/src/routes/kb/incidents/4471/+page.svx":C,"/src/routes/kb/incidents/4471-split/+page.svx":w,"/src/routes/kb/triage/dedupe/+page.svx":T})).map(([e,t])=>({href:e.replace(`/src/routes`,``).replace(`/+page.svx`,``),...t.metadata})).sort((e,t)=>e.href.localeCompare(t.href));p();var g=D(),_=o(t(g));f(_,5,()=>r,e=>e.href,(e,n)=>{var r=E(),c=t(r),l=t(c),f=i(l,!0);h(c);var p=o(c),g=i(p,!0),_=o(p),x=i(_,!0),S=o(_);let C;var w=i(S,!0);h(r),a((e,t)=>{u(l,`href`,m(n).href),s(f,m(n).title),s(g,m(n).owner),s(x,m(n).status),C=d(S,1,`svelte-tbc1ha`,null,C,{stale:e}),s(w,t)},[()=>y(m(n).reviewed)>180,()=>b(m(n).reviewed)]),v(e,r)}),h(_),h(g),v(e,g),c()}var k={layout:`runbook`,title:`Support knowledge base`,owner:`support desk`,status:`living`,reviewed:`2026-09-28T00:00:00.000Z`},{layout:A,title:j,owner:M,status:N,reviewed:P}=k,F=e(`<p>What the support desk knows, kept next to the code that knows it. One desk, every product: <code>sched-prod</code> (calendar invites for about 300k people) and the rest. When something breaks, the reports land here first.</p> <p>Start with <a href="/kb/triage/dedupe">triage</a> if you are new on the desk.</p> <h2>Pages</h2> <!> <h2>Writing a page</h2> <p>Keep the words here and the logic in <code>src/lib</code>. A number that can be computed should be
+computed by a component, not typed into a paragraph.</p>`,1);function I(e,t){let i=_(t,[`children`,`$$slots`,`$$events`,`$$legacy`]);x(e,g(()=>i,()=>k,{children:(e,t)=>{var i=F();O(o(n(i),6),{}),r(4),v(e,i)},$$slots:{default:!0}}))}export{I as component};

diff --git a/rendered/site/kb/incidents/4471.html b/rendered/site/kb/incidents/4471.html
@@ -9,14 +9,14 @@
 		<link href="../../_app/immutable/chunks/B2Ul7l_u.js" rel="modulepreload">
 		<link href="../../_app/immutable/chunks/BCPXOG7W.js" rel="modulepreload">
 		<link href="../../_app/immutable/chunks/Dh1V97Jm.js" rel="modulepreload">
-		<link href="../../_app/immutable/entry/app.Csm3dcEE.js" rel="modulepreload">
+		<link href="../../_app/immutable/entry/app.CWMet1Cd.js" rel="modulepreload">
 		<link href="../../_app/immutable/nodes/0.C9KfiiPz.js" rel="modulepreload">
 		<link href="../../_app/immutable/chunks/DK3Fl9T5.js" rel="modulepreload">
-		<link href="../../_app/immutable/nodes/4.D-Xot9V7.js" rel="modulepreload">
-		<link href="../../_app/immutable/chunks/D3RsPNhh.js" rel="modulepreload">
+		<link href="../../_app/immutable/nodes/4.rt2PfD_4.js" rel="modulepreload">
+		<link href="../../_app/immutable/chunks/CgeRC4yK.js" rel="modulepreload">
 		<link href="../../_app/immutable/chunks/BTPwLomz.js" rel="modulepreload">
 		<link href="../../_app/immutable/chunks/CVBzP17p.js" rel="modulepreload">
-		<link href="../../_app/immutable/chunks/CGGt1m8v.js" rel="modulepreload">
+		<link href="../../_app/immutable/chunks/BIy4WKJS.js" rel="modulepreload">
 		<!--e2jw2j--><!----><title>#4471 · dates parse mm/dd in eu locales · support kb</title>
 		<link href="../../_app/immutable/assets/runbook.COyw0cbZ.css" rel="stylesheet">
 		<link href="../../_app/immutable/assets/Callout.AbLv9dM_.css" rel="stylesheet">
@@ -29,16 +29,16 @@ first. The fix is queued.</p> <aside class="note svelte-17bri61"><!---->Known. O
 			
 			<script>
 				{
-					__sveltekit_19t1wzj = {
+					__sveltekit_7le717 = {
 						base: new URL("../..", location).pathname.slice(0, -1),
-						version: "1793204968447"
+						version: "1793205101162"
 					};
 
 					const element = document.currentScript.parentElement;
 
 					import("../../_app/immutable/entry/start.CH5w6lId.js").then(async (kit) => {
-						kit.init(__sveltekit_19t1wzj);
-						const app = await import("../../_app/immutable/entry/app.Csm3dcEE.js");
+						kit.init(__sveltekit_7le717);
+						const app = await import("../../_app/immutable/entry/app.CWMet1Cd.js");
 						kit.start(app, element, {
 							node_ids: [0, 4],
 							data: [null,null],

diff --git a/rendered/site/kb/triage/dedupe.html b/rendered/site/kb/triage/dedupe.html
@@ -9,13 +9,13 @@
 		<link href="../../_app/immutable/chunks/B2Ul7l_u.js" rel="modulepreload">
 		<link href="../../_app/immutable/chunks/BCPXOG7W.js" rel="modulepreload">
 		<link href="../../_app/immutable/chunks/Dh1V97Jm.js" rel="modulepreload">
-		<link href="../../_app/immutable/entry/app.Csm3dcEE.js" rel="modulepreload">
+		<link href="../../_app/immutable/entry/app.CWMet1Cd.js" rel="modulepreload">
 		<link href="../../_app/immutable/nodes/0.C9KfiiPz.js" rel="modulepreload">
 		<link href="../../_app/immutable/chunks/DK3Fl9T5.js" rel="modulepreload">
-		<link href="../../_app/immutable/nodes/6.B0cXnqFi.js" rel="modulepreload">
-		<link href="../../_app/immutable/chunks/gXcuRbIp.js" rel="modulepreload">
+		<link href="../../_app/immutable/nodes/6.sFtxrtyV.js" rel="modulepreload">
+		<link href="../../_app/immutable/chunks/BGqJVSDw.js" rel="modulepreload">
 		<link href="../../_app/immutable/chunks/BTPwLomz.js" rel="modulepreload">
-		<link href="../../_app/immutable/chunks/CGGt1m8v.js" rel="modulepreload">
+		<link href="../../_app/immutable/chunks/BIy4WKJS.js" rel="modulepreload">
 		<!--e2jw2j--><!----><title>Triage: duplicate reports · support kb</title>
 		<link href="../../_app/immutable/assets/runbook.COyw0cbZ.css" rel="stylesheet">
 		<link href="../../_app/immutable/assets/Callout.AbLv9dM_.css" rel="stylesheet">
@@ -29,16 +29,16 @@ anything else.<!----></aside><!----> <h2>Try it</h2> <div class="try svelte-gq0h
 			
 			<script>
 				{
-					__sveltekit_19t1wzj = {
+					__sveltekit_7le717 = {
 						base: new URL("../..", location).pathname.slice(0, -1),
-						version: "1793204968447"
+						version: "1793205101162"
 					};
 
 					const element = document.currentScript.parentElement;
 
 					import("../../_app/immutable/entry/start.CH5w6lId.js").then(async (kit) => {
-						kit.init(__sveltekit_19t1wzj);
-						const app = await import("../../_app/immutable/entry/app.Csm3dcEE.js");
+						kit.init(__sveltekit_7le717);
+						const app = await import("../../_app/immutable/entry/app.CWMet1Cd.js");
 						kit.start(app, element, {
 							node_ids: [0, 6],
 							data: [null,null],

diff --git a/rendered/site/_app/immutable/entry/app.CWMet1Cd.js b/rendered/site/_app/immutable/entry/app.CWMet1Cd.js
@@ -1,0 +1,2 @@
+const __vite__mapDeps=(i,m=__vite__mapDeps,d=(m.f||(m.f=["../nodes/0.C9KfiiPz.js","../chunks/DK3Fl9T5.js","../chunks/BCPXOG7W.js","../nodes/1.mOwa9YdW.js","../chunks/Dh1V97Jm.js","./payload.DSmR2FwN.js","../nodes/2.BAQ3ijwf.js","../chunks/BTPwLomz.js","../assets/runbook.COyw0cbZ.css","../chunks/YX22L_Ud.js","../chunks/CgeRC4yK.js","../chunks/CVBzP17p.js","../chunks/BIy4WKJS.js","../assets/Callout.AbLv9dM_.css","../assets/_page.D56XP2ro.css","../chunks/B25wft3Z.js","../assets/_page.lzZMl6pG.css","../chunks/BGqJVSDw.js","../assets/_page.DO6Yid7X.css","../assets/2.Bt0MwIZg.css","../nodes/3.DRxPfvn3.js","../nodes/4.rt2PfD_4.js","../nodes/5.B3uYD95O.js","../nodes/6.sFtxrtyV.js"])))=>i.map(i=>d[i]);
+import{t as e}from"../chunks/CRzLMJPS.js";var t={},n=[()=>e(()=>import(`../nodes/0.C9KfiiPz.js`),__vite__mapDeps([0,1,2]),import.meta.url),()=>e(()=>import(`../nodes/1.mOwa9YdW.js`),__vite__mapDeps([3,2,4,5]),import.meta.url),()=>e(()=>import(`../nodes/2.BAQ3ijwf.js`),__vite__mapDeps([6,2,7,8,9,1,10,11,12,13,14,15,16,17,18,19]),import.meta.url),()=>e(()=>import(`../nodes/3.DRxPfvn3.js`),__vite__mapDeps([20,9,1,2,7,8]),import.meta.url),()=>e(()=>import(`../nodes/4.rt2PfD_4.js`),__vite__mapDeps([21,10,1,2,7,8,11,12,13,14]),import.meta.url),()=>e(()=>import(`../nodes/5.B3uYD95O.js`),__vite__mapDeps([22,15,1,2,7,8,11,12,13,16]),import.meta.url),()=>e(()=>import(`../nodes/6.sFtxrtyV.js`),__vite__mapDeps([23,17,1,2,7,8,12,13,18]),import.meta.url)],r=[],i={"/kb":[2],"/kb/decisions/0001-dedupe-by-subject":[3],"/kb/incidents/4471-split":[5],"/kb/incidents/4471":[4],"/kb/triage/dedupe":[6]},a={handleError:(({kind:e,error:t})=>{e===`unknown`&&console.error(t)}),reroute:(()=>{}),transport:{}},o=Object.fromEntries(Object.entries(a.transport).map(([e,t])=>[e,t.decode])),s=Object.fromEntries(Object.entries(a.transport).map(([e,t])=>[e,t.encode])),c=!1,l=(e,t)=>o[e](t),u=()=>e(()=>import(`../chunks/Bjy-W4x2.js`).then(e=>e.default),[],import.meta.url);export{l as decode,o as decoders,i as dictionary,s as encoders,u as get_error_template,c as hash,a as hooks,t as matchers,n as nodes,r as server_loads};

diff --git a/src/lib/kb/causes.ts b/src/lib/kb/causes.ts
@@ -52,12 +52,8 @@ export function uniqueById(reports: Report[]): Report[] {
   return [...new Map(reports.map((r) => [r.id, r])).values()];
 }
 
-// A problem is what one fix repairs. Most reports follow their cause. The desk-noted one-day moves
-// (desk-notes.json) do not: a day/month swap never moves a date by one day, so they are their own.
-export type Problem = Cause | 'one-day' | 'unplaced';
-
-export type CauseGroup<K = Cause | 'unplaced'> = {
-  cause: K;
+export type CauseGroup = {
+  cause: Cause | 'unplaced';
   reports: Report[];
   // What intake tagged these reports as: tag → count.
   taggedAs: Record<string, number>;
@@ -68,21 +64,9 @@ export type CauseGroup<K = Cause | 'unplaced'> = {
 };
 
 export function groupByCause(reports: Report[], tenantOf: (r: Report) => Tenant | undefined): CauseGroup[] {
-  return groupBy(reports, (r) => causeOf(r, tenantOf(r)) ?? 'unplaced');
-}
-
-export function groupByProblem(
-  reports: Report[],
-  tenantOf: (r: Report) => Tenant | undefined,
-  oneDayMove: readonly string[],
-): CauseGroup<Problem>[] {
-  return groupBy(reports, (r) => (oneDayMove.includes(r.id) ? 'one-day' : (causeOf(r, tenantOf(r)) ?? 'unplaced')));
-}
-
-function groupBy<K>(reports: Report[], keyOf: (r: Report) => K): CauseGroup<K>[] {
-  const byCause = new Map<K, Report[]>();
+  const byCause = new Map<CauseGroup['cause'], Report[]>();
   for (const r of reports) {
-    const cause = keyOf(r);
+    const cause = causeOf(r, tenantOf(r)) ?? 'unplaced';
     byCause.set(cause, [...(byCause.get(cause) ?? []), r]);
   }
   return [...byCause.entries()]
@@ -108,6 +92,6 @@ export function ticketCause(groups: CauseGroup[], ticket: number): CauseGroup['c
 
 // Reports the desk read differently from their cause (desk-notes.json): counted where they're filed,
 // footnoted under it.
-export function readAs(g: CauseGroup<unknown>, ids: readonly string[]): number {
+export function readAs(g: CauseGroup, ids: readonly string[]): number {
   return g.reports.filter((r) => ids.includes(r.id)).length;
 }
